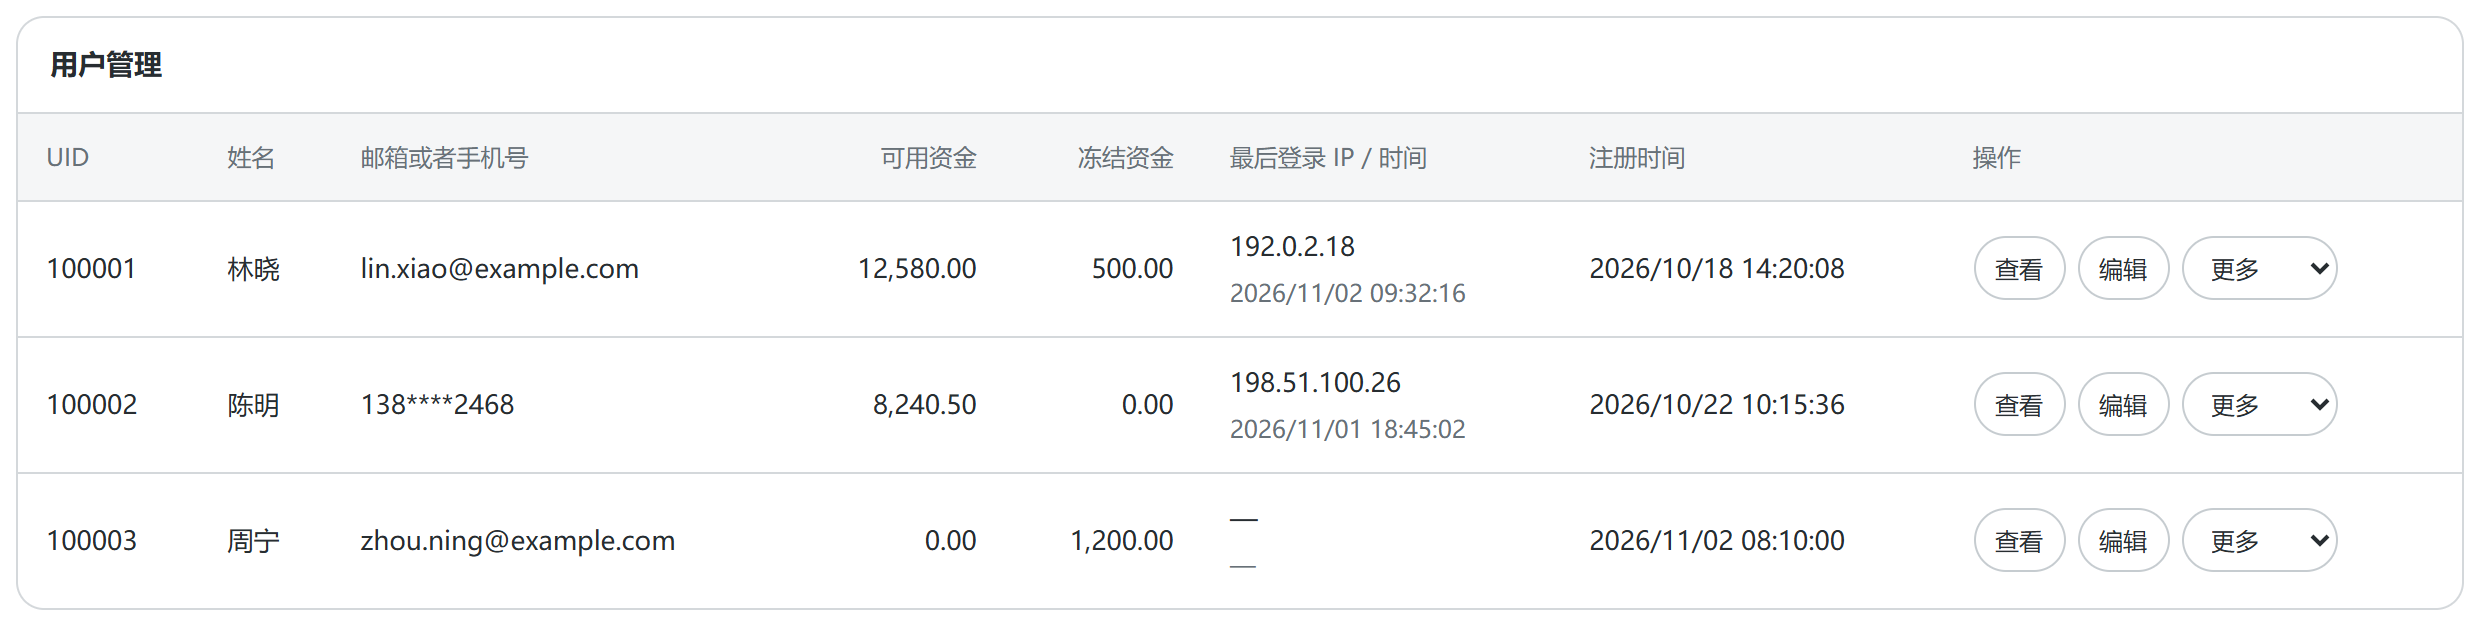
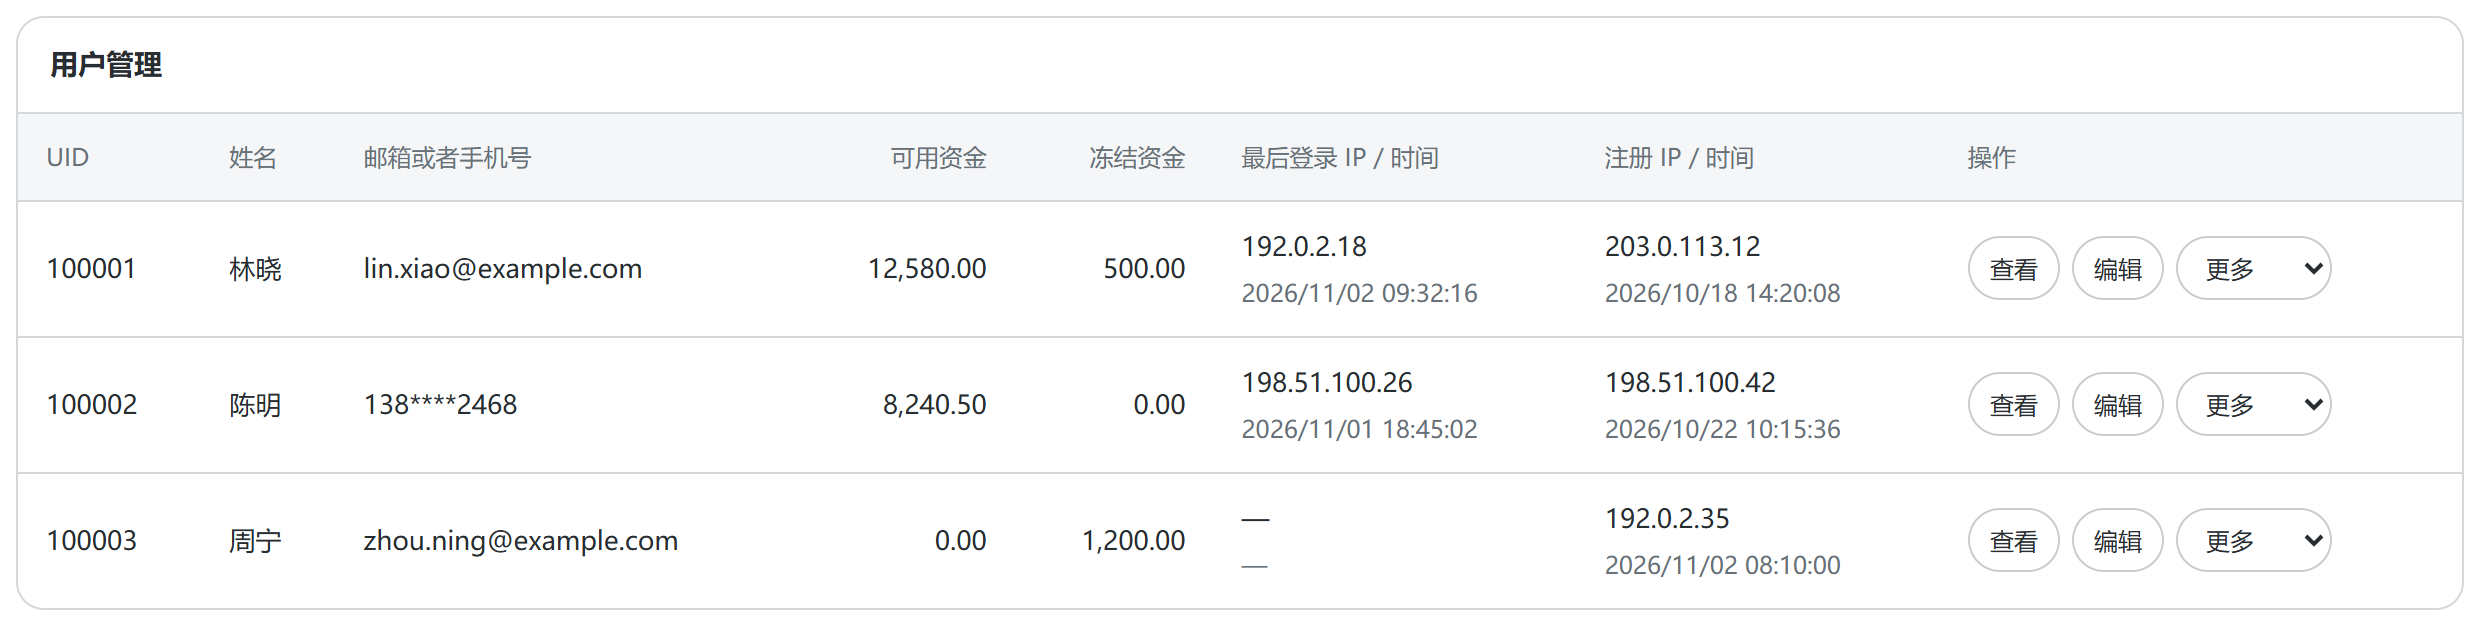
Show registration IP and time in user table

diff --git a/user-table/index.html b/user-table/index.html
@@ -6,7 +6,7 @@
   <div class="ui-users__scroll" role="region" aria-label="用户管理表格，可横向滚动" tabindex="0">
     <table class="ui-users__table">
       <caption>用户管理</caption>
-      <thead><tr><th scope="col">UID</th><th scope="col">姓名</th><th scope="col">邮箱或者手机号</th><th scope="col" class="ui-users__money">可用资金</th><th scope="col" class="ui-users__money">冻结资金</th><th scope="col">最后登录 IP / 时间</th><th scope="col">注册时间</th><th scope="col">操作</th></tr></thead>
+      <thead><tr><th scope="col">UID</th><th scope="col">姓名</th><th scope="col">邮箱或者手机号</th><th scope="col" class="ui-users__money">可用资金</th><th scope="col" class="ui-users__money">冻结资金</th><th scope="col">最后登录 IP / 时间</th><th scope="col">注册 IP / 时间</th><th scope="col">操作</th></tr></thead>
       <tbody><tr><td colspan="8" class="ui-users__empty">暂无用户</td></tr></tbody>
     </table>
   </div>

diff --git a/user-table/user-table.js b/user-table/user-table.js
@@ -45,7 +45,8 @@
       cell(user.availableFunds, 'ui-users__money'); cell(user.frozenFunds, 'ui-users__money');
       const login = cell(user.lastLoginIp, 'ui-users__mono');
       const time = document.createElement('span'); time.className = 'ui-users__secondary'; time.textContent = display(user.lastLoginTime); login.append(time);
-      cell(user.registeredAt, 'ui-users__mono');
+      const registration = cell(user.registrationIp, 'ui-users__mono');
+      const registeredTime = document.createElement('span'); registeredTime.className = 'ui-users__secondary'; registeredTime.textContent = display(user.registeredAt); registration.append(registeredTime);
       const actions = cell(''); actions.textContent = '';
       const group = document.createElement('div'); group.className = 'ui-users__actions';
       for (const [action, label] of [['view','查看'],['edit','编辑']]) {

diff --git a/user-table/demo.js b/user-table/demo.js
@@ -12,6 +12,7 @@ window.addEventListener('DOMContentLoaded', () => {
     "frozenFunds": "500.00",
     "lastLoginIp": "192.0.2.18",
     "lastLoginTime": "2026/11/02 09:32:16",
+    "registrationIp": "203.0.113.12",
     "registeredAt": "2026/10/18 14:20:08"
   },
   {
@@ -22,6 +23,7 @@ window.addEventListener('DOMContentLoaded', () => {
     "frozenFunds": "0.00",
     "lastLoginIp": "198.51.100.26",
     "lastLoginTime": "2026/11/01 18:45:02",
+    "registrationIp": "198.51.100.42",
     "registeredAt": "2026/10/22 10:15:36"
   },
   {
@@ -32,6 +34,7 @@ window.addEventListener('DOMContentLoaded', () => {
     "frozenFunds": "1,200.00",
     "lastLoginIp": null,
     "lastLoginTime": null,
+    "registrationIp": "192.0.2.35",
     "registeredAt": "2026/11/02 08:10:00"
   }
 ]);

diff --git a/user-table/README.md b/user-table/README.md
@@ -2,9 +2,9 @@
 
 独立 CSS / JS，无框架或其他组件依赖。紧凑圆角表格，默认中性颜色；窄屏在表格内横向滚动。
 
-字段顺序：UID、姓名、邮箱或者手机号、可用资金、冻结资金、最后登录 IP / 时间、注册时间、操作。
+字段顺序：UID、姓名、邮箱或者手机号、可用资金、冻结资金、最后登录 IP / 时间、注册 IP / 时间、操作。
 
-邮箱与手机号共用一列，优先显示邮箱，没有邮箱时显示手机号。最后登录 IP 和时间在同一格内分两行。缺失值显示“—”，空列表显示“暂无用户”。
+邮箱与手机号共用一列，优先显示邮箱，没有邮箱时显示手机号。最后登录 IP 和时间、注册 IP 和时间分别在各自单元格内分两行。缺失值显示“—”，空列表显示“暂无用户”。
 
 ## 引入
 
@@ -15,7 +15,7 @@
   <div class="ui-users__scroll" role="region" aria-label="用户管理表格，可横向滚动" tabindex="0">
     <table class="ui-users__table">
       <caption>用户管理</caption>
-      <thead><tr><th scope="col">UID</th><th scope="col">姓名</th><th scope="col">邮箱或者手机号</th><th scope="col" class="ui-users__money">可用资金</th><th scope="col" class="ui-users__money">冻结资金</th><th scope="col">最后登录 IP / 时间</th><th scope="col">注册时间</th><th scope="col">操作</th></tr></thead>
+      <thead><tr><th scope="col">UID</th><th scope="col">姓名</th><th scope="col">邮箱或者手机号</th><th scope="col" class="ui-users__money">可用资金</th><th scope="col" class="ui-users__money">冻结资金</th><th scope="col">最后登录 IP / 时间</th><th scope="col">注册 IP / 时间</th><th scope="col">操作</th></tr></thead>
       <tbody><tr><td colspan="8" class="ui-users__empty">暂无用户</td></tr></tbody>
     </table>
   </div>
@@ -35,6 +35,7 @@ UiUserTable.render(table, [{
   frozenFunds: '500.00',
   lastLoginIp: '192.0.2.18',
   lastLoginTime: '2026/11/02 09:32:16',
+  registrationIp: '203.0.113.12',
   registeredAt: '2026/10/18 14:20:08'
 }]);
 

diff --git a/README.md b/README.md
@@ -86,7 +86,7 @@
 
 ### 用户管理表格
 
-<img src="assets/user-table.png" alt="用户管理表格：UID、姓名、联系方式、资金、登录信息、注册时间和操作" width="960">
+<img src="assets/user-table.png" alt="用户管理表格：UID、姓名、联系方式、资金、登录信息、注册 IP / 时间和操作" width="960">
 
 ## 通用分布式部署
 
@@ -335,4 +335,4 @@ document.getElementById('status-select').addEventListener('change', event => {
 
 [源码与用法](user-table/README.md) · [独立演示](user-table/index.html)
 
-UID、姓名、邮箱或者手机号、可用资金、冻结资金、最后登录 IP / 时间、注册时间、操作；独立组件，操作通过事件接入项目。
+UID、姓名、邮箱或者手机号、可用资金、冻结资金、最后登录 IP / 时间、注册 IP / 时间、操作；独立组件，操作通过事件接入项目。
